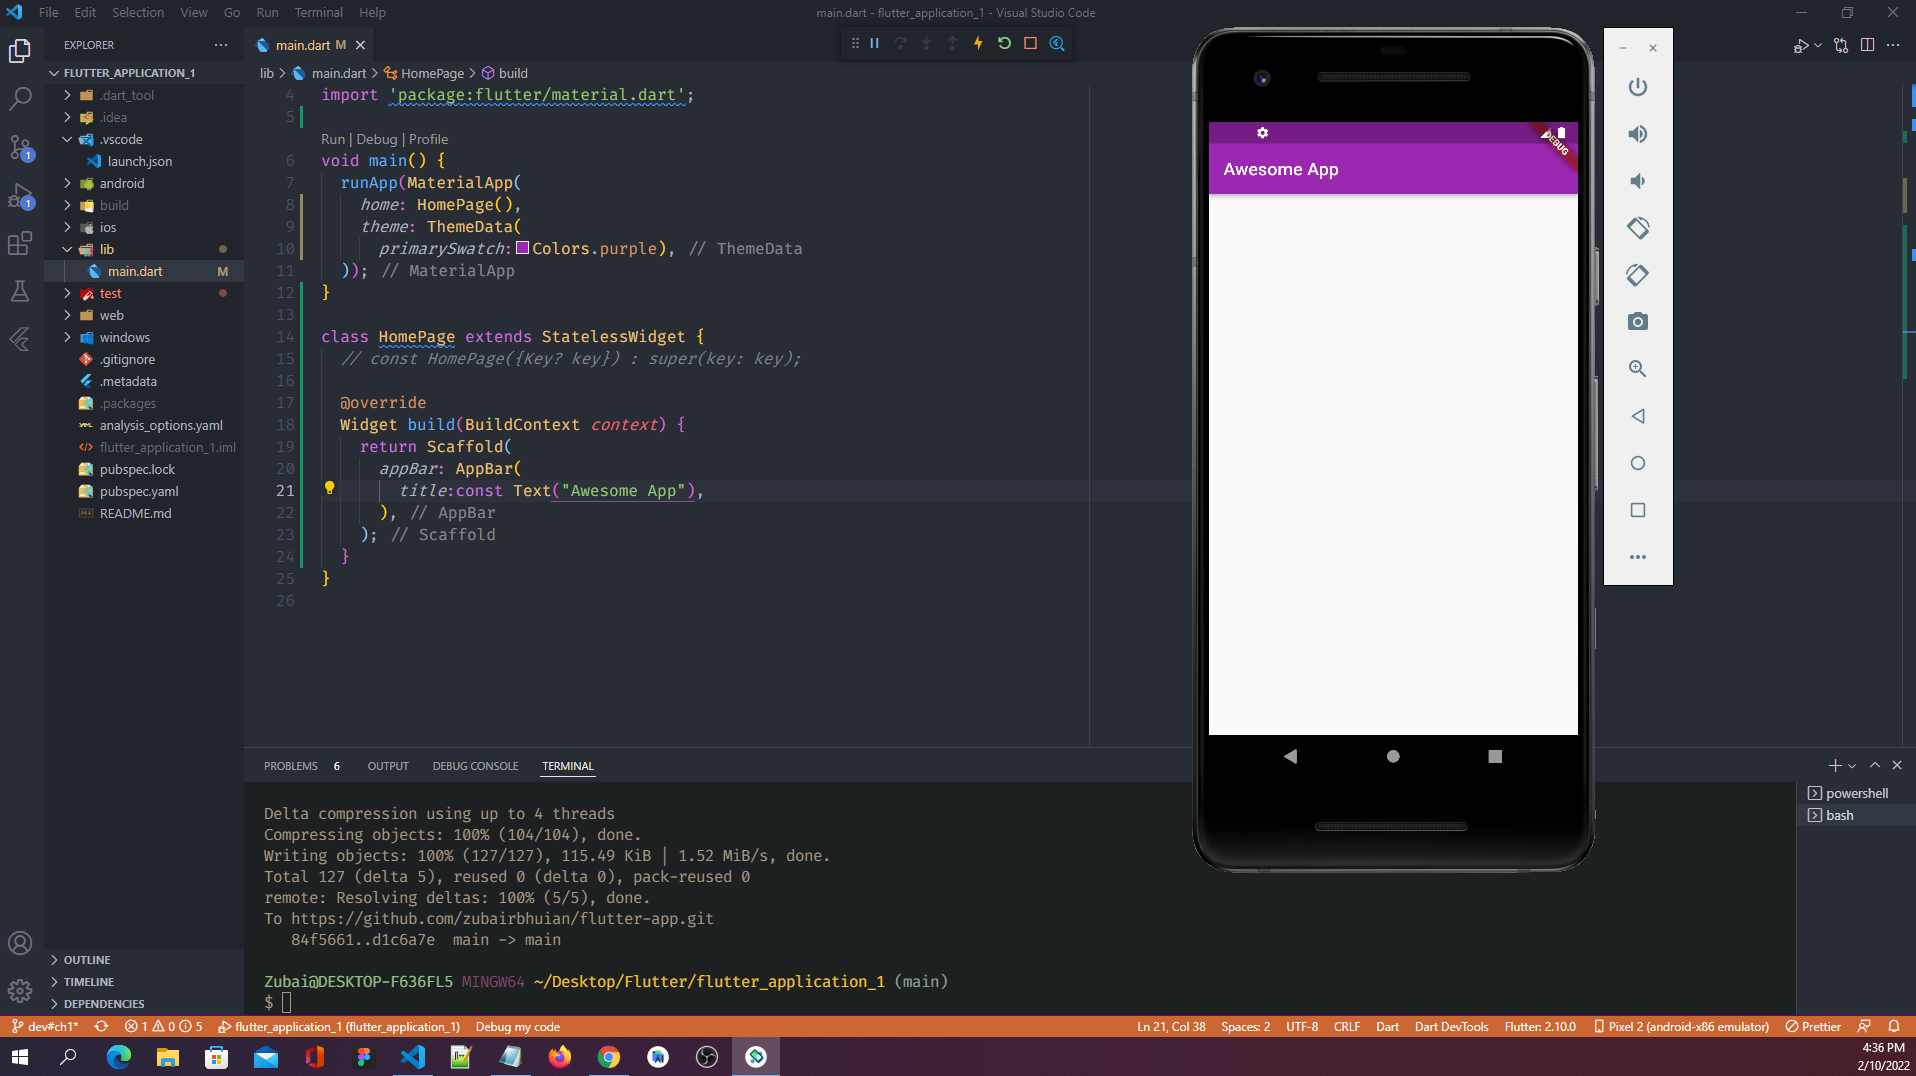
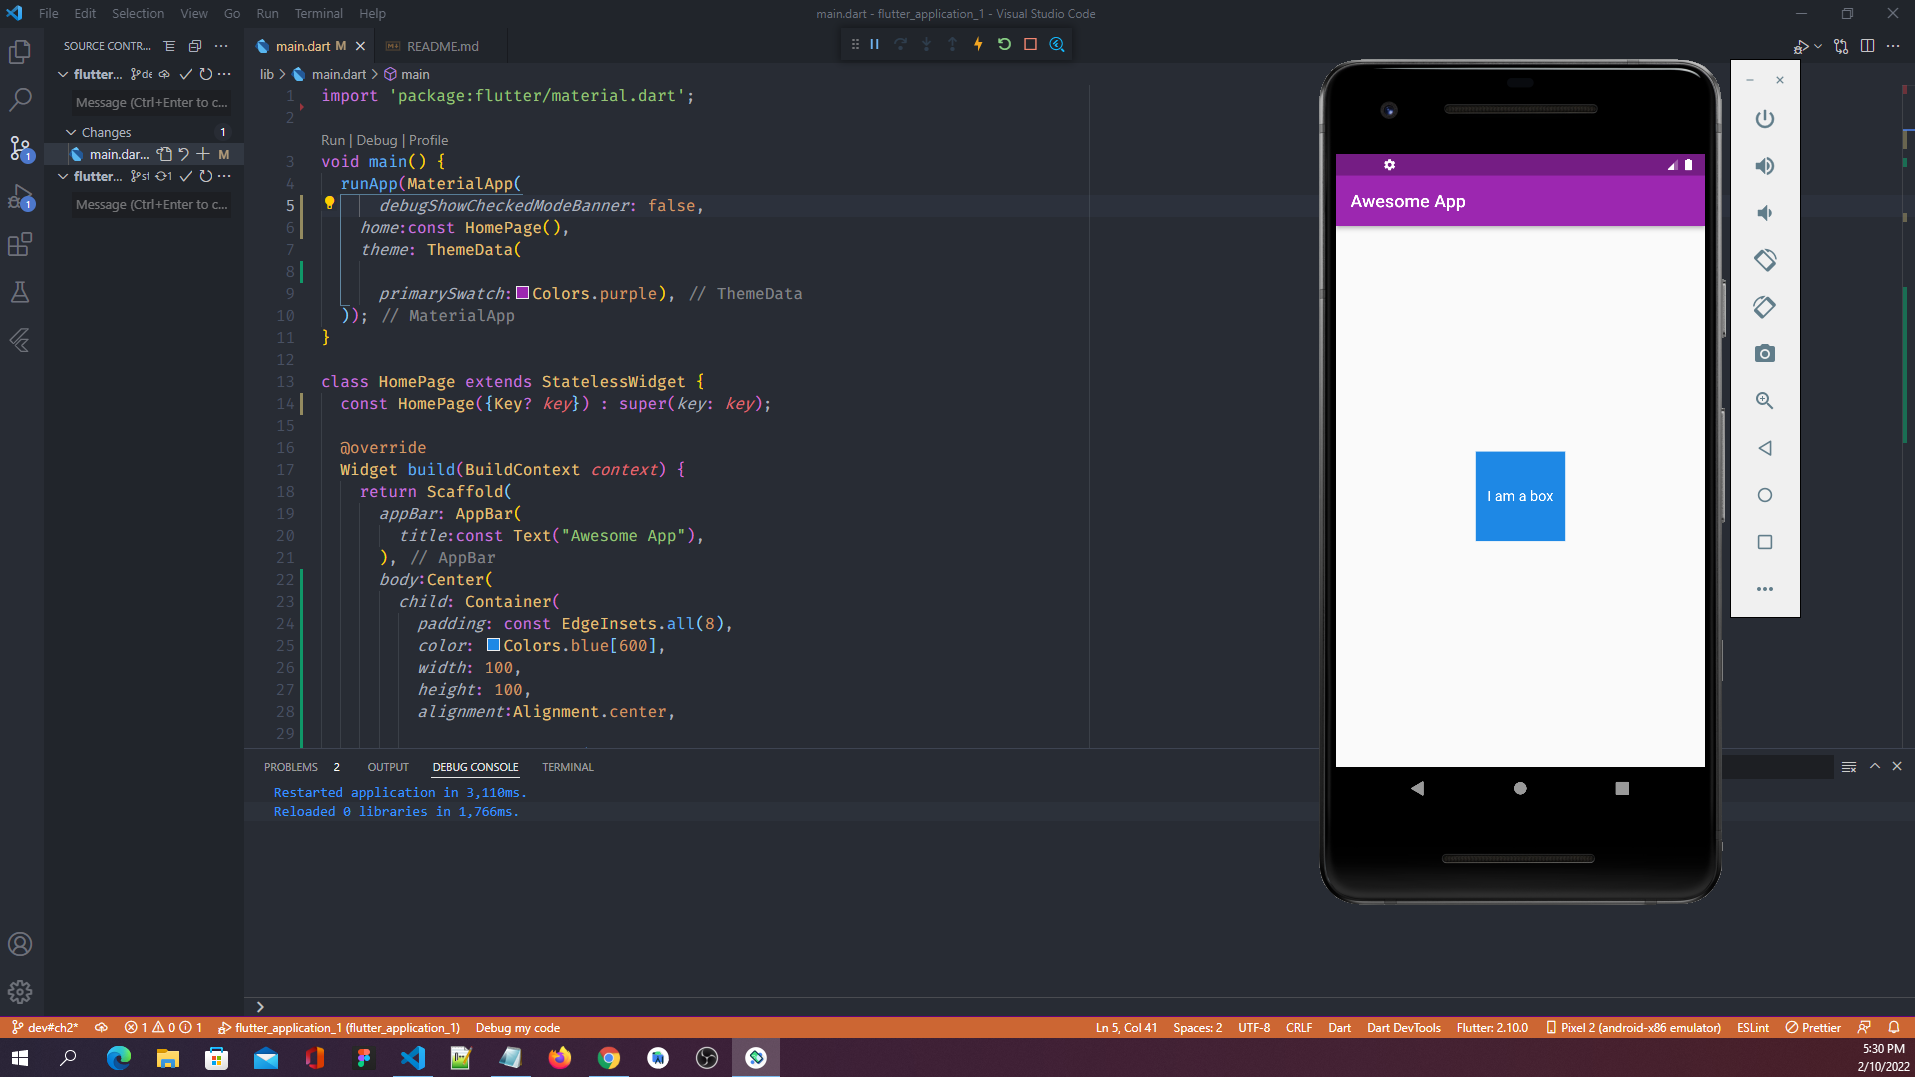
flutter10.7

diff --git a/lib/main.dart b/lib/main.dart
@@ -1,24 +1,40 @@
-import 'package:flutter/cupertino.dart';
-import 'package:flutter/foundation.dart';
-import 'package:flutter/material.dart';
 import 'package:flutter/material.dart';
 
 void main() {
   runApp(MaterialApp(
-    home: HomePage(),
+      debugShowCheckedModeBanner: false,
+    home:const HomePage(),
     theme: ThemeData(
+      
       primarySwatch:Colors.purple),
   ));
 }
 
 class HomePage extends StatelessWidget {
-  // const HomePage({Key? key}) : super(key: key);
+  const HomePage({Key? key}) : super(key: key);
 
   @override
   Widget build(BuildContext context) {
     return Scaffold(
       appBar: AppBar(
         title:const Text("Awesome App"),
+      ),
+      body:Center(
+        child: Container(
+          padding: const EdgeInsets.all(8),
+          color: Colors.blue[600],
+          width: 100,
+          height: 100,
+          alignment:Alignment.center,
+          
+          child: const Text(
+            "I am a box",
+            style:TextStyle(
+              fontSize: 16,
+              color: Colors.white
+            ),
+            ),
+        ),
       ),
     );
   }
